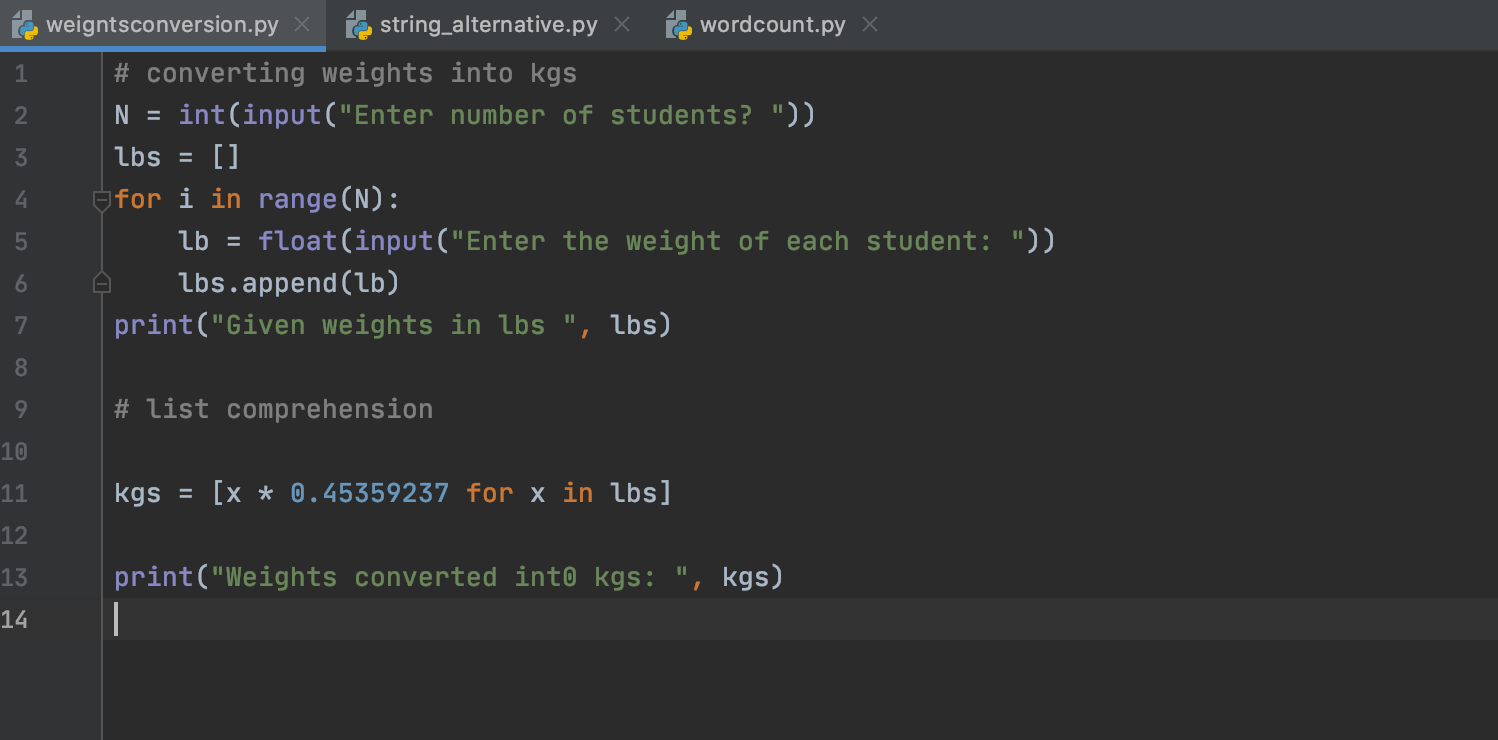
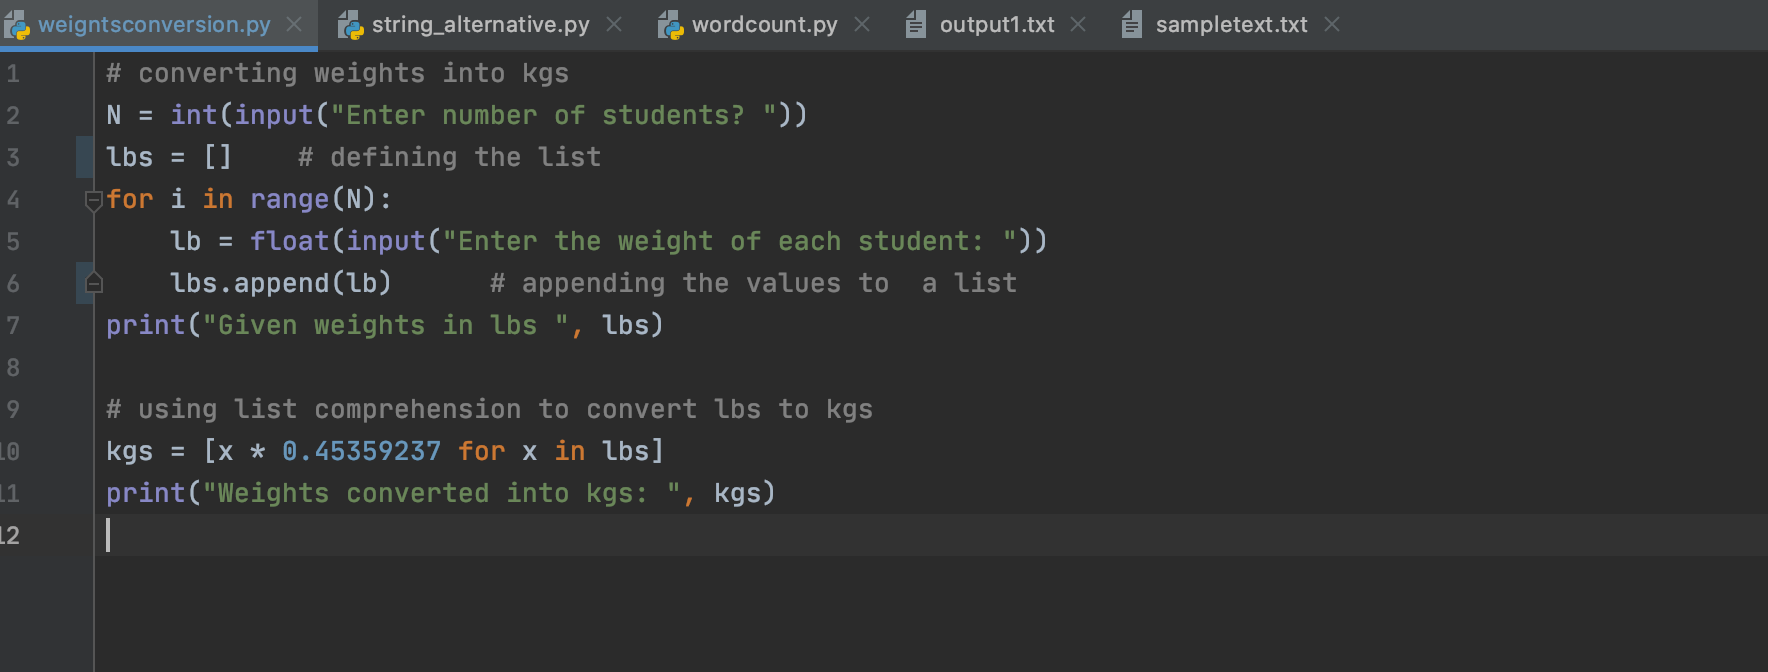
comments

diff --git a/ICP2/sourcecode/weigntsconversion.py b/ICP2/sourcecode/weigntsconversion.py
@@ -1,9 +1,9 @@
 # converting weights into kgs
 N = int(input("Enter number of students? "))
-lbs = []
+lbs = []    # defining the list
 for i in range(N):
     lb = float(input("Enter the weight of each student: "))
-    lbs.append(lb)
+    lbs.append(lb)      # appending the values to  a list
 print("Given weights in lbs ", lbs)
 
 # using list comprehension to convert lbs to kgs
